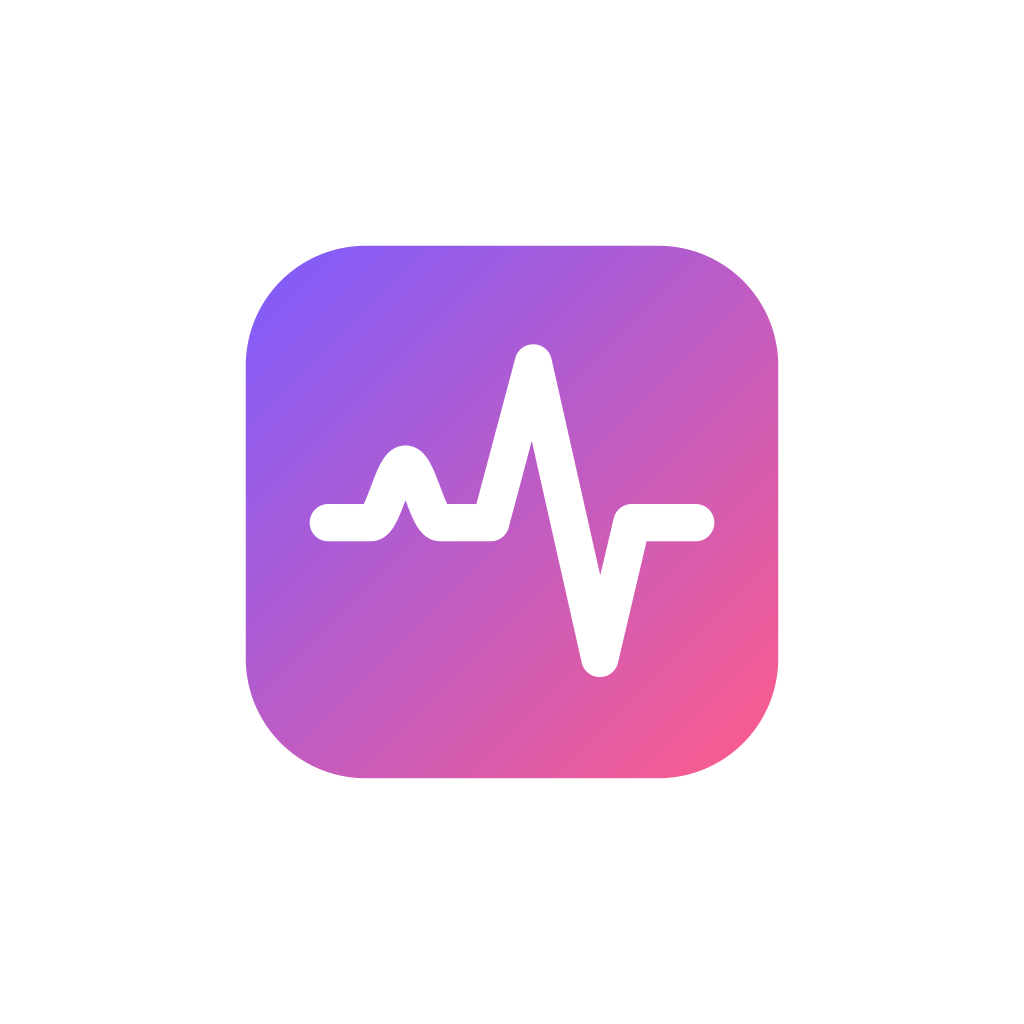
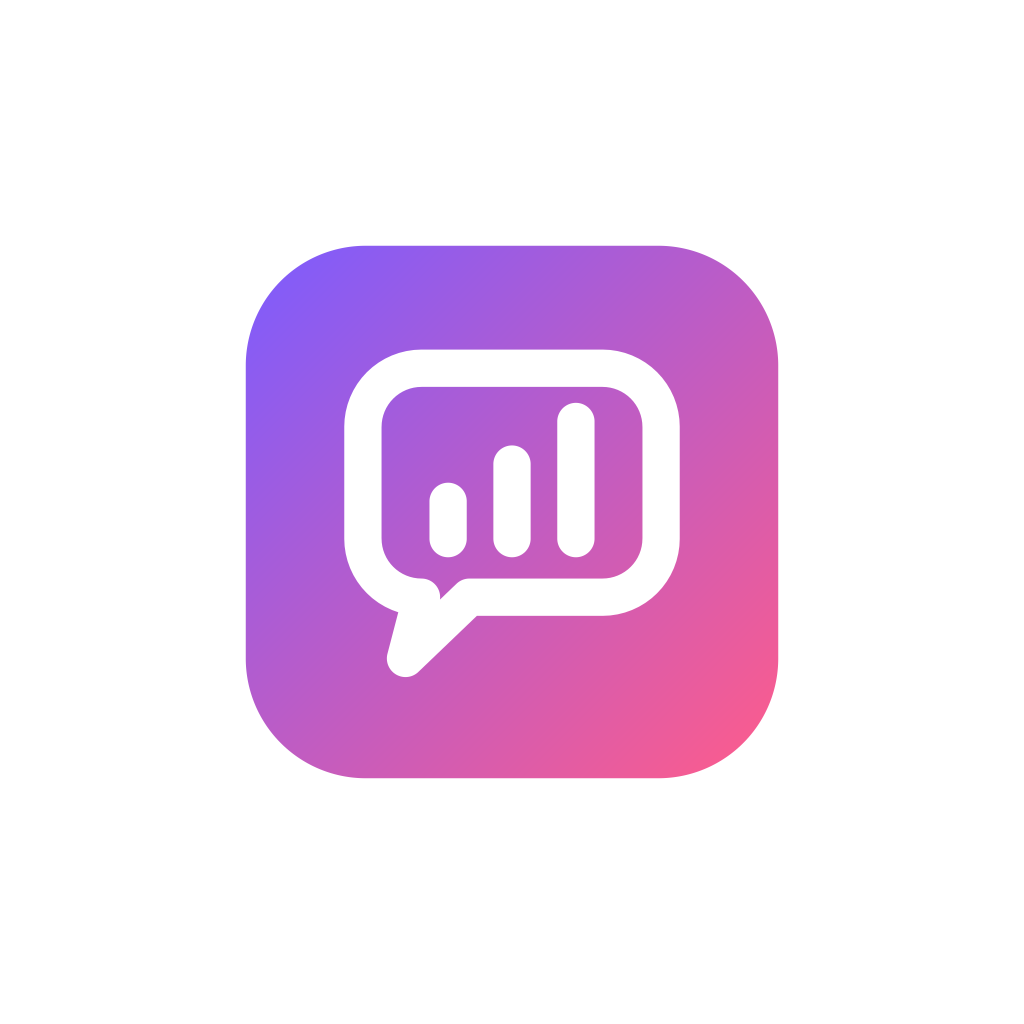
Brand: new Pulse mark, a speech bubble with rising bars (the heartbeat read as health care)
Claude-Session: https://claude.ai/code/session_019hEciGPoaa3SLi25yF7FrF

Changed region(s): [[0.2812, 0.3438, 0.7188, 0.6562], [0.5, 0.3125, 0.5312, 0.3438]]

diff --git a/apps/mobile/src/ui/Logo.tsx b/apps/mobile/src/ui/Logo.tsx
@@ -3,22 +3,28 @@ import { StyleSheet, View } from 'react-native';
 
 import { gradient } from '@/src/theme';
 
-const HEARTBEAT = 'M2 12.5h4.2l2.3-5.2 3.6 11 2.7-8 1.5 2.2H22';
+// Speech bubble (social) with three rising bars (growth), in badge units x 24; scripts/gen-assets.mjs draws the same
+// shapes for the app icons. (It replaced a heartbeat line, which read as a health-care app.)
+const MARK =
+  'M7.92 5.52H16.08A2.64 2.64 0 0 1 18.72 8.16V13.2A2.64 2.64 0 0 1 16.08 15.84H10.08L7.2 18.6L7.92 15.84' +
+  'A2.64 2.64 0 0 1 5.28 13.2V8.16A2.64 2.64 0 0 1 7.92 5.52Z M9.12 13.2V11.52 M12 13.2V9.84 M14.88 13.2V7.92';
+const MARK_STROKE = 1.68; // 7% of the badge, as in the icons
 
 /**
- * The heartbeat line. Web draws a plain DOM <svg> (react-native-svg renders exactly this on web) so that the first
+ * The brand mark (speech bubble with rising bars). Web draws a plain DOM <svg> (react-native-svg renders exactly this
+ * on web) so that the first
  * screen, which always shows the logo, does not pull the 50 KB react-native-svg library into the shared chunk. Native
  * keeps react-native-svg; Metro drops that require from the web bundle because the branch is dead there.
  */
-function Heartbeat({ size }: { size: number }) {
+function Mark({ size }: { size: number }) {
   if (process.env.EXPO_OS === 'web') {
     return (
       <svg width={size} height={size} viewBox="0 0 24 24">
         <path
-          d={HEARTBEAT}
+          d={MARK}
           fill="none"
           stroke="#ffffff"
-          strokeWidth={2.4}
+          strokeWidth={MARK_STROKE}
           strokeLinecap="round"
           strokeLinejoin="round"
         />
@@ -29,10 +35,10 @@ function Heartbeat({ size }: { size: number }) {
     return (
       <Svg width={size} height={size} viewBox="0 0 24 24">
         <Path
-          d={HEARTBEAT}
+          d={MARK}
           fill="none"
           stroke="#ffffff"
-          strokeWidth={2.4}
+          strokeWidth={MARK_STROKE}
           strokeLinecap="round"
           strokeLinejoin="round"
         />
@@ -41,7 +47,7 @@ function Heartbeat({ size }: { size: number }) {
   }
 }
 
-/** The brand mark: gradient badge with a heartbeat line. */
+/** The brand mark: gradient badge with a speech bubble and rising bars. */
 export function Logo({ size = 44 }: { size?: number }) {
   return (
     <View style={{ width: size, height: size }} accessibilityRole="image" accessibilityLabel="Logo">
@@ -51,7 +57,7 @@ export function Logo({ size = 44 }: { size?: number }) {
         end={gradient.end}
         style={[styles.badge, { borderRadius: size * 0.28 }]}
       >
-        <Heartbeat size={size * 0.68} />
+        <Mark size={size} />
       </LinearGradient>
     </View>
   );
